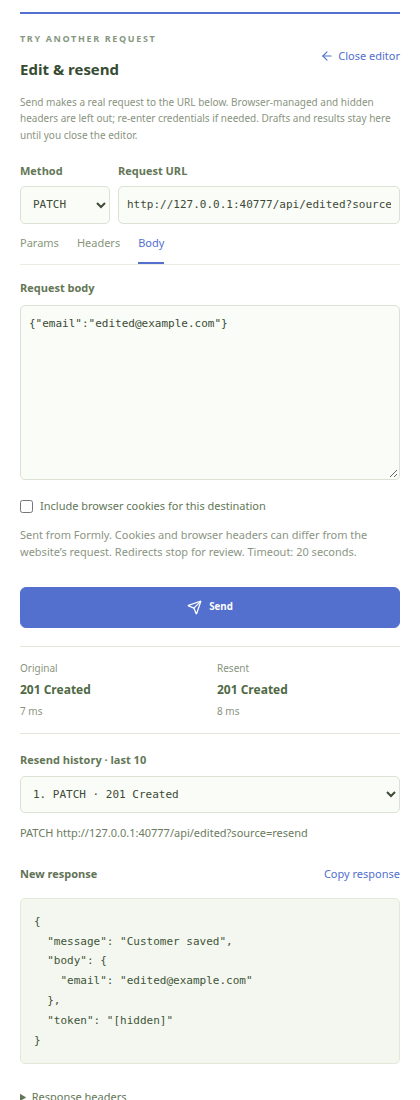
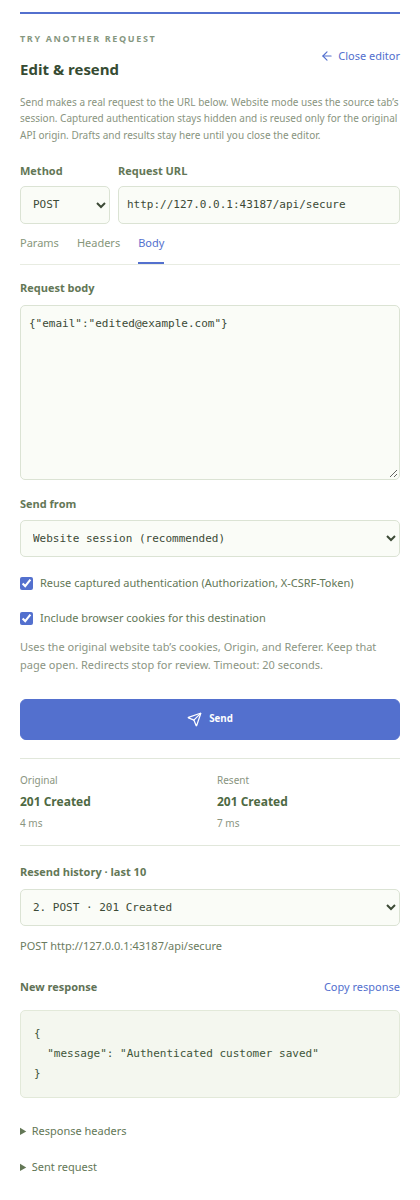
Preserve website session and captured authentication when resending

diff --git a/src/RequestEditor.tsx b/src/RequestEditor.tsx
@@ -1,7 +1,7 @@
 import {useEffect,useRef,useState} from 'react';
 import {ArrowLeft,Plus,Send,Trash2} from 'lucide-react';
 import {requestSummary,type RequestEntry} from './network';
-import {createDraft,METHODS,prepareRequest,replayRequest,type Pair,type ReplayResult} from './request-replay';
+import {createDraft,METHODS,prepareRequest,type Pair,type ReplayResult} from './request-replay';
 function Pairs({label,items,onChange}:{label:string;items:Pair[];onChange:(items:Pair[])=>void}) {
   return <div className="editor-pairs"><div className="body-heading"><h3>{label}</h3><button type="button" className="editor-text-button" onClick={()=>onChange([...items,{name:'',value:''}])}><Plus size={13}/> Add {label==='Headers'?'header':'parameter'}</button></div>
     {items.map((item,index)=><div className="editor-pair" key={index}><input aria-label={`${label} name ${index+1}`} placeholder="Name" value={item.name} onChange={e=>onChange(items.map((p,i)=>i===index?{...p,name:e.target.value}:p))}/><input aria-label={`${label} value ${index+1}`} placeholder="Value" value={item.value} onChange={e=>onChange(items.map((p,i)=>i===index?{...p,value:e.target.value}:p))}/><button type="button" className="icon-button" aria-label={`Remove ${label.toLowerCase()} ${index+1}`} onClick={()=>onChange(items.filter((_,i)=>i!==index))}><Trash2 size={14}/></button></div>)}
@@ -23,14 +23,19 @@ export function RequestEditor({original,onClose}:{original:RequestEntry;onClose:
     let prepared:ReturnType<typeof prepareRequest>;
     try{if(original.requestBodyNote && !['GET','HEAD'].includes(draft.method) && !draft.body)throw new Error('The original body was unavailable. Enter a replacement body before sending.');prepared=prepareRequest(draft);}catch(e){setError(e instanceof Error?e.message:'Check the request.');return;}
     locked.current=true;setBusy(true);setPhase('Waiting for website access…');
-    const abort=new AbortController();controller.current=abort;let timer:ReturnType<typeof setTimeout>|undefined;
+    const abort=new AbortController();controller.current=abort;
+    const requestId=crypto.randomUUID();
+    abort.signal.addEventListener('abort',()=>{void chrome.runtime.sendMessage({type:'replay:cancel',id:requestId}).catch(()=>{});},{once:true});let timer:ReturnType<typeof setTimeout>|undefined;
     try {
       // Keep the permission request directly in the Send gesture. Only the edited destination is requested.
-      const allowed=await chrome.permissions.request({origins:[prepared.origin]});
+      const origins=[prepared.origin];if(draft.transport==='website' && original.sourceOrigin){const source=new URL(original.sourceOrigin);origins.push(`${source.protocol}//${source.hostname}/*`);}
+      const allowed=await chrome.permissions.request({origins:[...new Set(origins)]});
       if(!mounted.current || abort.signal.aborted)return;
       if(!allowed)throw new Error('Website access was declined. Nothing was sent. Click Send to try again.');
       setPhase('Sending request…');timer=setTimeout(()=>abort.abort(),20000);
-      const result=await replayRequest(draft,abort.signal);
+      const reply:{ok:boolean;error?:string;result?:ReplayResult}=await chrome.runtime.sendMessage({type:'replay:send',id:requestId,originalId:original.id,draft});
+      if(!reply.ok || !reply.result)throw new Error(reply.error || 'No resend result returned.');
+      const result=reply.result;
       if(!mounted.current)return;
       setResults(previous=>[result,...previous].slice(0,10));setResultId(result.id);
     }catch(e){if(mounted.current)setError(e instanceof Error?e.message:'Could not send this request.');}
@@ -39,7 +44,7 @@ export function RequestEditor({original,onClose}:{original:RequestEntry;onClose:
   const result=results.find(item=>item.id===resultId),hasBody=!['GET','HEAD'].includes(draft.method);
   return <section className="request-editor" aria-label="Edit request">
     <div className="editor-heading"><div><p className="eyebrow">TRY ANOTHER REQUEST</p><h2>Edit & resend</h2></div><button className="editor-text-button" disabled={busy} onClick={onClose}><ArrowLeft size={14}/> Close editor</button></div>
-    <p className="capture-note">Send makes a real request to the URL below. Browser-managed and hidden headers are left out; re-enter credentials if needed. Drafts and results stay here until you close the editor.</p>
+    <p className="capture-note">Send makes a real request to the URL below. Website mode uses the source tab’s session. Captured authentication stays hidden and is reused only for the original API origin. Drafts and results stay here until you close the editor.</p>
     <form onSubmit={e=>{e.preventDefault();void send();}}>
       <fieldset disabled={busy} className="editor-fields"><legend className="sr-only">Request to send</legend>
         <div className="editor-address"><label>Method<select value={draft.method} onChange={e=>setDraft({...draft,method:e.target.value})}>{!METHODS.includes(draft.method as typeof METHODS[number])&&<option>{draft.method}</option>}{METHODS.map(method=><option key={method}>{method}</option>)}</select></label><label>Request URL<input type="text" value={draft.url} onChange={e=>setDraft({...draft,url:e.target.value})} spellCheck={false}/></label></div>
@@ -47,8 +52,10 @@ export function RequestEditor({original,onClose}:{original:RequestEntry;onClose:
         {tab==='params'&&<Pairs label="Parameters" items={params} onChange={updateParams}/>}
         {tab==='headers'&&<Pairs label="Headers" items={draft.headers} onChange={headers=>setDraft({...draft,headers})}/>}
         {tab==='body'&&<label className="editor-body">Request body<textarea value={draft.body} disabled={!hasBody} onChange={e=>setDraft({...draft,body:e.target.value})} spellCheck={false} placeholder="JSON, URL-encoded form data, or text"/>{!hasBody&&<span className="hint">{draft.method} sends no body. Your draft is kept if you switch methods.</span>}{original.requestBodyNote&&<span className="hint">Original body: {original.requestBodyNote} Enter a replacement before sending.</span>}</label>}
+        <label className="replay-history">Send from<select aria-label="Send from" value={draft.transport || 'extension'} onChange={e=>setDraft({...draft,transport:e.target.value as 'website'|'extension',cookies:e.target.value==='website'})}><option value="website" disabled={!original.sourceOrigin}>Website session (recommended)</option><option value="extension">Extension</option></select></label>
+        {!!original.authenticationHeaders?.length&&<label className="editor-cookies"><input type="checkbox" checked={!!draft.reuseAuth} onChange={e=>setDraft({...draft,reuseAuth:e.target.checked})}/> Reuse captured authentication ({original.authenticationHeaders.join(', ')})</label>}
         <label className="editor-cookies"><input type="checkbox" checked={draft.cookies} onChange={e=>setDraft({...draft,cookies:e.target.checked})}/> Include browser cookies for this destination</label>
-        <p className="hint">Sent from Formly. Cookies and browser headers can differ from the website’s request. Redirects stop for review. Timeout: 20 seconds.</p>
+        <p className="hint">{draft.transport==='website'?'Uses the original website tab’s cookies, Origin, and Referer. Keep that page open.':'Sent from the extension. Cookies, Origin, and Referer can differ from the website.'} Redirects stop for review. Timeout: 20 seconds.</p>
       </fieldset>
       {error&&<p className="message error" role="alert">{error}</p>}
       <div className="editor-send"><button className="primary" type="submit" disabled={busy}><Send size={15}/>{busy?'Sending…':'Send'}</button>{busy&&<button type="button" className="editor-text-button" onClick={()=>controller.current?.abort()}>Cancel</button>}</div>
@@ -59,7 +66,7 @@ export function RequestEditor({original,onClose}:{original:RequestEntry;onClose:
       <div className="body-heading"><h3>New response</h3><button className="editor-text-button" disabled={result.responseBody===undefined} onClick={()=>{void navigator.clipboard.writeText(result.responseBody || '').then(()=>setCopied(true)).catch(()=>setError('Could not copy the response.'));}}>{copied?'Copied':'Copy response'}</button></div>
       {result.error&&<p className="message error" role="alert">{result.error}</p>}{result.bodyNote&&<p className="hint">{result.bodyNote}</p>}{result.responseBody!==undefined&&<pre className="payload" tabIndex={0}>{result.responseBody || '(empty body)'}</pre>}
       <details className="request-headers"><summary>Response headers</summary><dl>{Object.entries(result.responseHeaders).map(([name,value])=><div key={name}><dt>{name}</dt><dd>{value}</dd></div>)}</dl></details>
-      <details className="request-headers"><summary>Sent request</summary><p className="hint">Browser cookies: {result.cookies?'included when permitted':'omitted'}. Known credential fields are hidden below.</p><dl>{Object.entries(result.requestHeaders).map(([name,value])=><div key={name}><dt>{name}</dt><dd>{value}</dd></div>)}</dl><pre className="payload">{result.requestBody || '(no body)'}</pre></details>
+      <details className="request-headers"><summary>Sent request</summary><p className="hint">Sent from: {result.transport==='website'?'website session':'extension'}. {result.reusedHeaders?.length?`Reused authentication: ${result.reusedHeaders.join(', ')}. `:''}Browser cookies: {result.cookies?'included when permitted':'omitted'}. Known credential fields are hidden below.</p><dl>{Object.entries(result.requestHeaders).map(([name,value])=><div key={name}><dt>{name}</dt><dd>{value}</dd></div>)}</dl><pre className="payload">{result.requestBody || '(no body)'}</pre></details>
       <details className="request-headers"><summary>Original response</summary><p className="full-endpoint">{original.method} {original.url}</p><pre className="payload">{original.responseBody ?? original.bodyNote ?? 'No response body captured.'}</pre></details>
     </section>}
   </section>;

diff --git a/tests/session-replay.spec.ts b/tests/session-replay.spec.ts
@@ -1,0 +1,60 @@
+import {test,expect,chromium} from '@playwright/test';
+import {createServer} from 'node:http';
+import type {AddressInfo} from 'node:net';
+import {mkdtemp,rm,cp,readFile,writeFile} from 'node:fs/promises';
+import {tmpdir} from 'node:os';
+import {resolve} from 'node:path';
+import {attachPanel} from './helpers/native-panel';
+
+test('resends with the website session, protected headers and original browser context',async()=>{
+  test.setTimeout(60000);
+  const requests:{origin?:string;referer?:string;cookie?:string;authorization?:string;csrf?:string;site?:string;body:string}[]=[];
+  let base='';
+  const server=createServer(async(req,res)=>{
+    if(req.url==='/app' || req.url==='/other'){res.writeHead(200,{'Content-Type':'text/html','Set-Cookie':'session=fixture-session; HttpOnly; SameSite=Strict; Path=/'});res.end('<h1>Authenticated form</h1>');return;}
+    if(req.url!=='/api/secure' && req.url!=='/api/slow'){res.writeHead(204);res.end();return;}
+    let body='';for await(const chunk of req)body+=chunk;
+    const received={origin:req.headers.origin,referer:req.headers.referer,cookie:req.headers.cookie,authorization:req.headers.authorization,csrf:req.headers['x-csrf-token'] as string,site:req.headers['sec-fetch-site'] as string,body};requests.push(received);
+    if(req.url==='/api/slow')return;
+    const accepted=received.origin===base && received.referer===`${base}/app` && received.cookie?.includes('session=fixture-session') && received.authorization==='Bearer fixture-auth' && received.csrf==='fixture-csrf';
+    res.writeHead(accepted?201:403,{'Content-Type':'application/json'});res.end(JSON.stringify({message:accepted?'Authenticated customer saved':'Session or CSRF context mismatch'}));
+  });
+  await new Promise<void>(done=>server.listen(0,'127.0.0.1',done));base=`http://127.0.0.1:${(server.address() as AddressInfo).port}`;
+  const root=await mkdtemp(resolve(tmpdir(),'formly-session-')),extension=resolve(root,'extension');await cp(resolve('dist'),extension,{recursive:true});
+  const manifest=JSON.parse(await readFile(resolve(extension,'manifest.json'),'utf8'));manifest.host_permissions.push('http://127.0.0.1/*');await writeFile(resolve(extension,'manifest.json'),JSON.stringify(manifest));
+  const context=await chromium.launchPersistentContext(resolve(root,'profile'),{channel:'chromium',headless:true,args:['--enable-unsafe-extension-debugging',`--disable-extensions-except=${extension}`,`--load-extension=${extension}`]});
+  try{
+    const worker=context.serviceWorkers()[0] || await context.waitForEvent('serviceworker'),id=worker.url().split('/')[2];
+    const options=await context.newPage();await options.goto(`chrome-extension://${id}/index.html`);
+    const website=await context.newPage();await website.goto(`${base}/app`);
+    const tab=await worker.evaluate(async()=> (await chrome.tabs.query({active:true,lastFocusedWindow:true}))[0]);await options.evaluate(windowId=>chrome.sidePanel.open({windowId}),tab.windowId);
+    const cdp=await context.browser()!.newBrowserCDPSession();let target:string|undefined;
+    await expect.poll(async()=>{target=(await cdp.send('Target.getTargets')).targetInfos.find(t=>t.url.endsWith('/sidepanel.html'))?.targetId;return !!target;}).toBe(true);
+    const panel=await attachPanel(cdp,target!);
+    const settle=()=>panel.evaluate('new Promise(resolve=>requestAnimationFrame(()=>requestAnimationFrame(resolve)))');
+    async function click(text:string){const selector=`Array.from(document.querySelectorAll('button')).find(b=>b.textContent.trim()===${JSON.stringify(text)})`;await expect.poll(()=>panel.evaluate(`!!(${selector}) && !(${selector}).disabled`)).toBe(true);await panel.evaluate(`(${selector}).click()`);await settle();}
+    async function fill(selector:string,value:string){await panel.evaluate(`(()=>{const e=document.querySelector(${JSON.stringify(selector)});Object.getOwnPropertyDescriptor(e.tagName==='TEXTAREA'?HTMLTextAreaElement.prototype:e.tagName==='SELECT'?HTMLSelectElement.prototype:HTMLInputElement.prototype,'value').set.call(e,${JSON.stringify(value)});e.dispatchEvent(new Event(e.tagName==='SELECT'?'change':'input',{bubbles:true}));})()`);await settle();}
+    const editor=()=>panel.evaluate('document.querySelector(".request-editor")?.textContent || ""');
+    await click('Requests');await click('Start recording');await expect.poll(()=>panel.evaluate('document.querySelector(".record-status").textContent')).toContain('Recording');
+    await website.evaluate(async()=>{await fetch('/api/secure',{method:'POST',headers:{'Content-Type':'application/json',Authorization:'Bearer fixture-auth','X-CSRF-Token':'fixture-csrf'},body:JSON.stringify({email:'original@example.com'})});});
+    await expect.poll(()=>panel.evaluate('document.querySelectorAll(".request-row").length')).toBe(1);
+    await panel.evaluate('document.querySelector(".request-row").click()');await expect.poll(()=>panel.evaluate('document.querySelector(".request-detail").textContent')).toContain('201');
+    await click('Stop recording');await click('Edit & resend');
+    expect(await panel.evaluate("document.querySelector('select[aria-label]').value")).toBe('website');
+    expect(await editor()).toContain('Reuse captured authentication');
+    const captured=await panel.evaluate('chrome.runtime.sendMessage({type:"network:get"}).then(r=>chrome.runtime.sendMessage({type:"network:get",selectedId:r.capture.entries[0].id})).then(r=>JSON.stringify(r))');expect(captured).not.toMatch(/fixture-auth|fixture-csrf|fixture-session/);
+    await fill('.editor-body textarea','{"email":"edited@example.com"}');
+    // Extension fetch can include cookies and auth yet still fail the site's Origin/Referer checks.
+    await fill('[aria-label="Send from"]','extension');await panel.evaluate('document.querySelector(".editor-cookies:last-of-type input").click()');await settle();await click('Send');await expect.poll(editor).toContain('Session or CSRF context mismatch');
+    await fill('[aria-label="Send from"]','website');await click('Send');await expect.poll(()=>panel.evaluate('document.querySelector(".replay-response>.payload")?.textContent || ""')).toContain('Authenticated customer saved');
+    expect(requests[1]).toMatchObject({authorization:'Bearer fixture-auth',csrf:'fixture-csrf',cookie:'session=fixture-session'});
+    expect(requests).toHaveLength(3);expect(requests[2]).toMatchObject({...requests[0],body:'{"email":"edited@example.com"}',site:'same-origin'});
+    expect(await editor()).not.toMatch(/fixture-auth|fixture-csrf|fixture-session/);
+    for(const width of [360,420,768]){await panel.send('Emulation.setDeviceMetricsOverride',{width,height:1200,deviceScaleFactor:1,mobile:false});await panel.evaluate('document.querySelector(".request-editor").scrollIntoView()');await settle();expect(await panel.evaluate('document.documentElement.scrollWidth<=innerWidth')).toBe(true);const shot=await panel.send('Page.captureScreenshot',{format:'png'});await writeFile(`test-results/session-replay-${width}.png`,Buffer.from(shot.data,'base64'));}
+    await fill('.editor-address input',`${base}/api/slow`);await click('Send');await expect.poll(()=>requests.length).toBe(4);await click('Cancel');await expect.poll(editor).toContain('may already have reached the server');
+    // Original authentication must not follow an edited URL to another origin, including another port.
+    await fill('.editor-address input','http://127.0.0.1:1/api/secure');await click('Send');await expect.poll(editor).toContain('Turn off captured authentication');expect(requests).toHaveLength(4);
+    await fill('.editor-address input',`${base}/api/secure`);await website.goto(`${base}/other`);await click('Send');await expect.poll(editor).toContain('source page changed');expect(requests).toHaveLength(4);
+    expect(panel.errors).toEqual([]);
+  }finally{await context.close();await rm(root,{recursive:true,force:true});server.closeAllConnections();await new Promise<void>(done=>server.close(()=>done()));}
+});

diff --git a/src/network-recorder.ts b/src/network-recorder.ts
@@ -1,3 +1,4 @@
+import {browserHeader} from './request-replay';
 import {bodyPreview,editableBody,cleanHeaders,cleanURL,MAX_BODY_BYTES,MAX_REQUESTS,type CaptureState,type RequestEntry} from './network';
 interface DebuggerAPI {
   attach:(tabId:number)=>Promise<void>;
@@ -5,7 +6,7 @@ interface DebuggerAPI {
   command:(tabId:number,method:string,params?:Record<string,unknown>)=>Promise<unknown>;
 }
 interface NetworkEvent {
-  requestId?:string;type?:string;timestamp?:number;wallTime?:number;errorText?:string;
+  requestId?:string;documentURL?:string;type?:string;timestamp?:number;wallTime?:number;errorText?:string;
   request?:{url:string;method:string;headers?:Record<string,unknown>;postData?:string;hasPostData?:boolean};
   response?:{status:number;statusText:string;headers?:Record<string,unknown>;mimeType?:string};
   redirectResponse?:{status:number;statusText:string;headers?:Record<string,unknown>};
@@ -16,6 +17,14 @@ export class NetworkRecorder {
   private generation=0;
   private rows=new Map<string,{entry:RequestEntry;timestamp:number}>();
   private transitioning=false;
+  // Unredacted authentication headers are never included in capture views or storage.
+  private sessions=new Map<string,{tabId:number;pageURL:string;requestOrigin:string;headers:Record<string,string>}>();
+  replayContext(id:string,url:string,reuse:boolean) {
+    const session=this.sessions.get(id);
+    if(!session)throw new Error('The captured session is no longer available. Record the request again.');
+    if(reuse && new URL(url).origin!==session.requestOrigin)throw new Error('Turn off captured authentication before sending to a different origin.');
+    return {...session,headers:reuse?{...session.headers}:{}};
+  }
   constructor(private api:DebuggerAPI){}
   get state(){return structuredClone(this.capture);}
   view(selectedId?:string):CaptureState{return {...this.capture,entries:this.capture.entries.map(entry=>entry.id===selectedId?{...entry}:{...entry,requestBody:undefined,editableBody:undefined,responseBody:undefined,requestHeaders:{},responseHeaders:{}})};}
@@ -26,7 +35,7 @@ export class NetworkRecorder {
     let attached=false;
     try {
       await this.api.attach(tabId);attached=true;
-      ++this.generation;this.rows.clear();
+      ++this.generation;this.rows.clear();this.sessions.clear();
       this.capture={recording:true,tabId,site,message:'Recording fetch, XHR, and document requests from this tab.',entries:[]};
       await this.api.command(tabId,'Network.enable',{maxTotalBufferSize:4*1024*1024,maxResourceBufferSize:128*1024,maxPostDataSize:MAX_BODY_BYTES});
     } catch(error) {
@@ -49,7 +58,7 @@ export class NetworkRecorder {
     for(const entry of this.capture.entries)if(entry.state==='pending'){entry.state='stopped';entry.bodyNote='Recording ended before the response completed.';}
     this.rows.clear();
   }
-  clear(){++this.generation;this.rows.clear();this.capture.entries=[];}
+  clear(){++this.generation;this.rows.clear();this.sessions.clear();this.capture.entries=[];}
   async event(tabId:number,method:string,params:unknown) {
     if(!this.capture.recording || this.capture.tabId!==tabId || !params || typeof params!=='object')return;
     const event=params as NetworkEvent;
@@ -62,8 +71,12 @@ export class NetworkRecorder {
       if(prior && event.redirectResponse){prior.entry.state='redirected';prior.entry.status=event.redirectResponse.status;prior.entry.statusText=event.redirectResponse.statusText;prior.entry.responseHeaders=cleanHeaders(event.redirectResponse.headers);prior.entry.duration=Math.max(0,Math.round(((event.timestamp || 0)-prior.timestamp)*1000));prior.entry.bodyNote='Redirect response. The following request appears separately.';}
       if(!['Fetch','XHR','Document'].includes(event.type || '') || !/^https?:/i.test(event.request.url)){this.rows.delete(key);return;}
       const entry:RequestEntry={id:crypto.randomUUID(),url:cleanURL(event.request.url),method:event.request.method,kind:event.type!,startedAt:(event.wallTime || Date.now()/1000)*1000,state:'pending',requestHeaders:cleanHeaders(event.request.headers),responseHeaders:{}};
+      const headers=Object.fromEntries(Object.entries(event.request.headers || {}).filter(([name,value])=>!browserHeader(name) && entry.requestHeaders[name]==='[hidden]' && typeof value==='string').map(([name,value])=>[name,String(value)]));
+      let pageURL='';try{const source=new URL(event.documentURL || '');if(/^https?:$/.test(source.protocol)){source.hash='';pageURL=source.href;entry.sourceOrigin=source.origin;}}catch{}
+      entry.authenticationHeaders=Object.keys(headers);
+      this.sessions.set(entry.id,{tabId,pageURL,requestOrigin:new URL(event.request.url).origin,headers});
       this.capture.entries.push(entry);this.rows.set(key,{entry,timestamp:event.timestamp || 0});
-      if(this.capture.entries.length>MAX_REQUESTS){const removed=this.capture.entries.shift();for(const [id,row] of this.rows)if(row.entry===removed)this.rows.delete(id);}
+      if(this.capture.entries.length>MAX_REQUESTS){const removed=this.capture.entries.shift();if(removed)this.sessions.delete(removed.id);for(const [id,row] of this.rows)if(row.entry===removed)this.rows.delete(id);}
       const mime=Object.entries(event.request.headers || {}).find(([name])=>name.toLowerCase()==='content-type')?.[1];
       const applyBody=(body:string)=>{const preview=bodyPreview(body,String(mime || ''));entry.requestBody=preview.text;entry.editableBody=editableBody(body,String(mime || ''));if(preview.note){entry.bodyNote=preview.note;entry.requestBodyNote=preview.note;}};
       if(event.request.postData!==undefined)applyBody(event.request.postData);

diff --git a/src/session-replay.ts b/src/session-replay.ts
@@ -1,0 +1,49 @@
+import {bodyPreview,cleanHeaders,cleanURL} from './network';
+import {prepareRequest,replayRequest,type RequestDraft,type ReplayResult} from './request-replay';
+import type {NetworkRecorder} from './network-recorder';
+import {websiteRequest,type WebsiteRequest} from './website-replay';
+export function registerSessionReplay(recorder:NetworkRecorder) {
+  const pending=new Map<string,{owner?:string;abort:AbortController;tabId?:number;documentId?:string;wire?:WebsiteRequest}>();
+  chrome.runtime.onMessage.addListener((message:unknown,sender,sendResponse)=>{
+    if(sender.id!==chrome.runtime.id || sender.url?.split('?')[0]!==chrome.runtime.getURL('sidepanel.html') || !message || typeof message!=='object')return;
+    const msg=message as {type?:string;id?:string;originalId?:string;draft?:RequestDraft};
+    if(!msg.type?.startsWith('replay:'))return;
+    void(async()=>{
+      if(!msg.id || msg.id.length>100)throw new Error('Invalid resend identifier.');
+      if(msg.type==='replay:cancel'){
+        const task=pending.get(msg.id);if(!task || task.owner!==sender.documentId)return;
+        task.abort.abort();
+        return;
+      }
+      if(msg.type!=='replay:send' || !msg.draft || !msg.originalId)throw new Error('Invalid resend action.');
+      if(pending.size)throw new Error('Another resend is still running. Wait for it to finish.');
+      const draft=msg.draft,prepared=prepareRequest(draft);
+      const context=recorder.replayContext(msg.originalId,prepared.url,!!draft.reuseAuth);
+      const headers=new Headers(context.headers);for(const [name,value] of prepared.headers)headers.set(name,value);
+      const resolved={...draft,headers:[...headers].map(([name,value])=>({name,value}))};
+      const task:{owner?:string;abort:AbortController;tabId?:number;documentId?:string;wire?:WebsiteRequest}={owner:sender.documentId,abort:new AbortController()};
+      task.abort.signal.addEventListener('abort',()=>{if(task.tabId!==undefined && task.documentId && task.wire)void chrome.scripting.executeScript({target:{tabId:task.tabId,documentIds:[task.documentId]},func:websiteRequest,args:[task.wire,'cancel']}).catch(()=>{});},{once:true});
+      pending.set(msg.id,task);const timer=setTimeout(()=>task.abort.abort(),20000);
+      try {
+        let result:ReplayResult;
+        if(draft.transport!=='website')result=await replayRequest(resolved,task.abort.signal);
+        else {
+          if(!context.pageURL)throw new Error('The source page was not captured. Record again or choose extension mode.');
+          const tab=await chrome.tabs.get(context.tabId);if(!tab.active)throw new Error('Select the original website tab before resending.');
+          const frame=(await chrome.scripting.executeScript({target:{tabId:context.tabId},func:()=>({url:location.href.split('#')[0]})}))[0];
+          if(!frame?.documentId || frame.result?.url!==context.pageURL)throw new Error('The source page changed. Record again, or choose extension mode.');
+          if(task.abort.signal.aborted)throw new Error('Resend was canceled before sending.');
+          task.tabId=context.tabId;task.documentId=frame.documentId;
+          task.wire={id:msg.id,url:prepared.url,method:draft.method,headers:Object.fromEntries(headers),body:prepared.body,cookies:draft.cookies,sourceOrigin:new URL(context.pageURL).origin};
+          const raw=(await chrome.scripting.executeScript({target:{tabId:context.tabId,documentIds:[frame.documentId]},func:websiteRequest,args:[task.wire]}))[0]?.result;
+          if(!raw)throw new Error('The source page closed or changed while sending. The server may have received the request.');
+          const preview=bodyPreview(raw.body ?? '',raw.headers?.['content-type'] || '');
+          const requestBody=bodyPreview(prepared.body ?? '',headers.get('content-type') || '');
+          result={id:crypto.randomUUID(),kind:'Resend',url:cleanURL(prepared.url),method:draft.method,startedAt:Date.now()-(raw.duration || 0),duration:raw.duration,state:raw.error?'failed':raw.redirected?'redirected':'complete',status:raw.status,statusText:raw.statusText,requestHeaders:cleanHeaders(Object.fromEntries(headers)),responseHeaders:cleanHeaders(raw.headers),requestBody:requestBody.text,responseBody:raw.body===undefined?undefined:preview.text,bodyNote:raw.note || preview.note,error:raw.error,cookies:draft.cookies};
+        }
+        result.transport=draft.transport;result.reusedHeaders=Object.keys(context.headers);return result;
+      }finally{clearTimeout(timer);pending.delete(msg.id);}
+    })().then(result=>sendResponse({ok:true,result})).catch(error=>sendResponse({ok:false,error:error instanceof Error?error.message:'Resend failed.'}));
+    return true;
+  });
+}

diff --git a/src/website-replay.ts b/src/website-replay.ts
@@ -1,0 +1,26 @@
+// This function is injected into the source document's isolated world: no module references.
+// Cookies/Origin/Referer are supplied by Chrome in the website's context, not by the extension page.
+export interface WebsiteRequest {id:string;url:string;method:string;headers:Record<string,string>;body?:string;cookies:boolean;sourceOrigin:string}
+export interface WebsiteResponse {status?:number;statusText?:string;headers?:Record<string,string>;body?:string;note?:string;error?:string;redirected?:boolean;duration?:number}
+export async function websiteRequest(input:WebsiteRequest,action:'send'|'cancel'='send'):Promise<WebsiteResponse> {
+  const state=globalThis as typeof globalThis & {__formlyRequests?:Map<string,AbortController>};
+  if(action==='cancel'){const abort=state.__formlyRequests?.get(input.id) || new AbortController();abort.abort();(state.__formlyRequests ??=new Map()).set(input.id,abort);setTimeout(()=>{if(state.__formlyRequests?.get(input.id)===abort)state.__formlyRequests.delete(input.id);},20000);return {};}
+  if(location.origin!==input.sourceOrigin)throw new Error('The source page changed. Record the request again.');
+  const controller=state.__formlyRequests?.get(input.id) || new AbortController();(state.__formlyRequests ??= new Map()).set(input.id,controller);
+  const timer=setTimeout(()=>controller.abort(),20000),started=performance.now();
+  const result:WebsiteResponse={};
+  try {
+    const response=await fetch(input.url,{method:input.method,headers:input.headers,body:input.body,credentials:input.cookies?'include':'omit',redirect:'manual',cache:'no-store',signal:controller.signal});
+    if(response.type==='opaqueredirect'){result.redirected=true;result.note='Redirect stopped. Chrome hides this response’s status and headers. Enter the destination URL to send there explicitly.';}
+    else {
+      result.status=response.status;result.statusText=response.statusText;result.headers=Object.fromEntries(response.headers);
+      if(response.body){
+        const reader=response.body.getReader(),chunks:Uint8Array[]=[];let size=0;
+        try{while(true){const next=await reader.read();if(next.done)break;size+=next.value.byteLength;if(size>64*1024){result.note='Body exceeds the 64 KB preview limit.';await reader.cancel();break;}chunks.push(next.value);}}finally{reader.releaseLock();}
+        if(!result.note){const bytes=new Uint8Array(size);let offset=0;for(const chunk of chunks){bytes.set(chunk,offset);offset+=chunk.length;}result.body=new TextDecoder().decode(bytes);}
+      }else result.body='';
+    }
+  }catch{result.error=controller.signal.aborted?'Request canceled or timed out. It may already have reached the server.':'Could not read a website response. Check CORS, the connection, and whether the page is still open. The request may have reached the server.';}
+  finally{clearTimeout(timer);state.__formlyRequests?.delete(input.id);}
+  result.duration=Math.round(performance.now()-started);return result;
+}

diff --git a/src/requests.css b/src/requests.css
@@ -5,3 +5,5 @@
 .edit-request-button{width:100%;padding:11px;margin:4px 0 12px;background:#edf1fc;border:1px solid #d7dff6;border-radius:6px;color:#4663bc;font-weight:600;font-size:12px}.request-editor{border-top:2px solid #5370ce;margin-top:24px;padding-top:18px;scroll-margin-top:12px}.editor-heading{display:flex;justify-content:space-between;align-items:center;gap:10px}.editor-heading h2{font-size:20px;margin:5px 0;color:#364b32}.editor-heading .eyebrow{font-size:9px}.editor-text-button{display:inline-flex;align-items:center;justify-content:center;gap:4px;background:none;border:0;color:#5370ce;font-size:11px;padding:8px 0;flex-shrink:0}.editor-fields{border:0;padding:0;margin:0;min-width:0}.editor-address{display:grid;grid-template-columns:90px minmax(0,1fr);gap:8px}.editor-address label,.editor-body,.replay-history{display:block;font-size:11px;color:#637756;font-weight:600}.editor-fields input:not([type=checkbox]),.editor-fields select,.editor-fields textarea,.replay-history select{width:100%;min-width:0;border:1px solid #dbe3d4;border-radius:5px;background:#fafcf7;color:#3c4a36;padding:10px 8px;font:11px/1.5 ui-monospace,SFMono-Regular,Consolas,monospace}.editor-address input,.editor-address select{margin-top:6px;height:38px}.editor-pair{display:grid;grid-template-columns:minmax(0,1fr) minmax(0,1.4fr) 28px;gap:5px;align-items:center;margin:7px 0}.editor-body{margin-top:15px}.editor-body textarea{display:block;min-height:175px;resize:vertical;margin-top:8px}.editor-body .hint{display:block;font-weight:400;margin-top:8px}.editor-cookies{display:flex;gap:7px;align-items:flex-start;margin:18px 0 8px;font-size:11px;line-height:1.5;color:#637756}.editor-cookies input{margin:2px 0;accent-color:#5370ce}.editor-send{display:flex;gap:18px;align-items:center;margin-top:15px}.editor-send .primary{display:flex;align-items:center;justify-content:center;gap:7px;flex:1}.replay-comparison{display:grid;grid-template-columns:1fr 1fr;border-top:1px solid #e1e7db;border-bottom:1px solid #e1e7db;margin:18px 0;padding:14px 0;gap:14px}.replay-comparison>div{min-width:0}.replay-comparison span,.replay-comparison strong,.replay-comparison small{display:block;overflow-wrap:anywhere}.replay-comparison span{font-size:10px;color:#899480}.replay-comparison strong{font-size:12px;color:#4e6943;margin:5px 0}.replay-comparison small{font-size:10px;color:#899480}.replay-history select{display:block;margin-top:8px}.request-editor button:disabled{opacity:.5;cursor:not-allowed}.request-editor input:focus-visible,.request-editor textarea:focus-visible,.request-editor select:focus-visible{outline:2px solid #5370ce;outline-offset:2px}.request-editor .hint{line-height:1.6}
 
 .replay-comparison .bad strong{color:#b0654d}
+
+.editor-fields>.replay-history{margin-top:16px}

diff --git a/src/request-replay.ts b/src/request-replay.ts
@@ -1,15 +1,15 @@
 import {bodyPreview,cleanHeaders,cleanURL,MAX_BODY_BYTES,type RequestEntry} from './network';
 export const METHODS=['GET','POST','PUT','PATCH','DELETE','HEAD','OPTIONS'] as const;
 export interface Pair {name:string;value:string}
-export interface RequestDraft {url:string;method:string;headers:Pair[];body:string;cookies:boolean}
-export interface ReplayResult extends RequestEntry {cookies:boolean}
+export interface RequestDraft {url:string;method:string;headers:Pair[];body:string;cookies:boolean;transport?:'website'|'extension';reuseAuth?:boolean}
+export interface ReplayResult extends RequestEntry {cookies:boolean;transport?:'website'|'extension';reusedHeaders?:string[]}
 // These headers are controlled by Fetch; showing them as editable would silently misrepresent the send.
 export function browserHeader(name:string) {
   return /^(?:sec-|proxy-|:)/i.test(name) || /^(?:accept-charset|accept-encoding|access-control-request-headers|access-control-request-method|connection|content-length|cookie2?|date|dnt|expect|host|keep-alive|origin|permissions-policy|referer|te|trailer|transfer-encoding|upgrade|via|user-agent)$/i.test(name);
 }
 function hidden(value:string){return /\[hidden\]|%5bhidden%5d/i.test(value);}
 export function createDraft(entry:RequestEntry):RequestDraft {
-  return {url:entry.url,method:entry.method,headers:Object.entries(entry.requestHeaders).filter(([name,value])=>!browserHeader(name)&&!hidden(value)).map(([name,value])=>({name,value})),body:entry.editableBody ?? '',cookies:false};
+  return {url:entry.url,method:entry.method,headers:Object.entries(entry.requestHeaders).filter(([name,value])=>!browserHeader(name)&&!hidden(value)).map(([name,value])=>({name,value})),body:entry.editableBody ?? '',cookies:!!entry.sourceOrigin,transport:entry.sourceOrigin?'website':'extension',reuseAuth:!!entry.authenticationHeaders?.length};
 }
 export function prepareRequest(draft:RequestDraft) {
   let url:URL;

diff --git a/tests/request-editor.spec.ts b/tests/request-editor.spec.ts
@@ -44,6 +44,7 @@ test('edits and resends captured requests with real payloads, responses, and per
     await panel.evaluate('document.querySelector(".request-row").click()');
     await expect.poll(()=>panel.evaluate('document.querySelector(".request-detail").textContent')).toContain('original@example.com');
     await click('Stop recording');await click('Edit & resend');
+    await fill('[aria-label="Send from"]','extension');
     await click('Send');await expect.poll(editor).toContain('Replace or remove hidden values');expect(received).toHaveLength(1);
     await fill('.editor-address input',`${base}/api/edited?source=panel`);
     await fill('.editor-address select','PATCH');
@@ -74,7 +75,7 @@ test('edits and resends captured requests with real payloads, responses, and per
     await expect.poll(editor).toContain('Email rejected');expect(await editor()).toContain('422');expect(received[2].cookie).toBe('test_session=fixture');
     await fill('.editor-address input',`${base}/redirect`);await click('Send');await expect.poll(editor).toContain('Redirect stopped');expect(received.some(item=>item.url==='/redirect-destination')).toBe(false);
     await fill('.editor-address input',`${base}/slow`);await click('Send');await expect.poll(()=>received.some(item=>item.url==='/slow')).toBe(true);await click('Cancel');await expect.poll(editor).toContain('may already have reached the server');
-    expect(await panel.evaluate('document.querySelectorAll(".replay-history option").length')).toBe(4);
+    expect(await panel.evaluate('document.querySelectorAll(".replay-response .replay-history option").length')).toBe(4);
     await click('Close editor');expect(await editor()).toBe('');expect(panel.errors).toEqual([]);
   }finally{await context.close();await rm(root,{recursive:true,force:true});server.closeAllConnections();await new Promise<void>(done=>server.close(()=>done()));}
 });

diff --git a/tests/network.test.ts b/tests/network.test.ts
@@ -49,3 +49,14 @@ it('leaves recording off after attach failure without detaching someone else',as
  const {recorder,api}=setup();api.attach.mockRejectedValue(new Error('Another debugger is attached'));
  await expect(recorder.start(7,'example.com')).rejects.toThrow();expect(api.detach).not.toHaveBeenCalled();expect(recorder.state.recording).toBe(false);
 });
+it('keeps captured authentication private and binds reuse to its original origin and history lifetime',async()=>{
+ const {recorder}=setup();await recorder.start(7,'example.com');
+ await recorder.event(7,'Network.requestWillBeSent',{...request(),documentURL:'https://example.com/form'});
+ const entry=recorder.state.entries[0];expect(entry.authenticationHeaders).toEqual(['Authorization']);
+ expect(JSON.stringify(recorder.view(entry.id))).not.toContain('Bearer secret');
+ expect(recorder.replayContext(entry.id,'https://example.com/edited',true).headers.Authorization).toBe('Bearer secret');
+ expect(()=>recorder.replayContext(entry.id,'https://other.example.com/edited',true)).toThrow('different origin');
+ expect(recorder.replayContext(entry.id,'https://other.example.com/edited',false).headers).toEqual({});
+ await recorder.stop();expect(recorder.replayContext(entry.id,entry.url,true).headers.Authorization).toBe('Bearer secret');
+ recorder.clear();expect(()=>recorder.replayContext(entry.id,entry.url,true)).toThrow('no longer available');
+});

diff --git a/src/main.tsx b/src/main.tsx
@@ -88,7 +88,7 @@ function App() {
         {isExtension()&&<p className="helper">To fill a website, switch to its tab and click the Formly toolbar icon. These settings apply automatically. For field details and undo, right-click the icon → Open Formly panel, or press Alt + Shift + F.</p>}
         <p className="footnote">New data with every click. {settings.overwrite?'Existing values will be replaced.':'Existing values are kept.'}</p>
       </div>
-      <footer><span><span className="status-dot"/> Your browser, your test data</span><a className="welcome-link" href="./welcome.html" target="_blank" rel="noreferrer">Welcome guide ↗</a><span>v0.10</span></footer>
+      <footer><span><span className="status-dot"/> Your browser, your test data</span><a className="welcome-link" href="./welcome.html" target="_blank" rel="noreferrer">Welcome guide ↗</a><span>v0.10.1</span></footer>
     </main>
     {!isExtension()&&<section className="demo"><div className="demo-header"><FlaskConical size={20}/><div><h2>Try it on a real form</h2><p>This local demo uses the same filling engine as the extension.</p></div><a href="/demo.html" target="_blank" rel="noreferrer">Open form <ArrowUpRight size={14}/></a></div><iframe id="demo-form" title="Mixed-language test form" src="/demo.html"/><p className="demo-tip">Use the generator on the left, then watch the fields fill here.</p></section>}
   </div>;

diff --git a/src/network-background.ts b/src/network-background.ts
@@ -1,9 +1,11 @@
+import {registerSessionReplay} from './session-replay';
 import {NetworkRecorder} from './network-recorder';
 const recorder=new NetworkRecorder({
   attach:tabId=>chrome.debugger.attach({tabId},'1.3'),
   detach:tabId=>chrome.debugger.detach({tabId}),
   command:(tabId,method,params)=>chrome.debugger.sendCommand({tabId},method,params),
 });
+registerSessionReplay(recorder);
 let recordingWindow:number|undefined;
 chrome.debugger.onEvent.addListener((source,method,params)=>{
   if(source.tabId!==undefined && !('sessionId' in source && source.sessionId))void recorder.event(source.tabId,method,params).catch(()=>{});

diff --git a/src/network.ts b/src/network.ts
@@ -19,6 +19,8 @@ export interface RequestEntry {
   bodyNote?: string;
   error?: string;
   mimeType?: string;
+  sourceOrigin?: string;
+  authenticationHeaders?: string[];
 }
 export interface CaptureState {
   recording: boolean;
